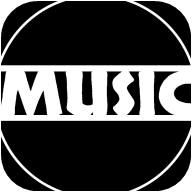
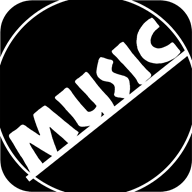
スマホ版 v8.23.3: アプリのアイコンを新しいデザインに変更

diff --git a/index.html b/index.html
@@ -8,12 +8,12 @@
 <link rel="manifest" href="manifest.webmanifest">
 <meta name="theme-color" content="#2b2757">
 <meta name="mobile-web-app-capable" content="yes">
-<link rel="icon" href="icons/icon.svg?v=20261015-5" type="image/svg+xml">
-<link rel="apple-touch-icon" href="icons/icon-192.png?v=20261015-5">
+<link rel="icon" href="icons/icon.svg?v=20261015-6" type="image/svg+xml">
+<link rel="apple-touch-icon" href="icons/icon-192.png?v=20261015-6">
 <link rel="preconnect" href="https://fonts.googleapis.com">
 <link rel="preconnect" href="https://fonts.gstatic.com" crossorigin>
 <link href="https://fonts.googleapis.com/css2?family=Cormorant+Garamond:wght@400;600&family=DM+Sans:opsz,wght@9..40,400;9..40,500;9..40,700&family=Cinzel:wght@400;500&display=swap" rel="stylesheet">
-<link rel="stylesheet" href="style.css?v=20261015-5">
+<link rel="stylesheet" href="style.css?v=20261015-6">
 <!-- 画面の色（v3.7）：最初の描画の前にブラックモードを当てる（白→黒のちらつきを防ぐ）。保存場所は musicManager_ui の theme -->
 <script>
 (function () {
@@ -741,92 +741,92 @@
 <div id="busy-overlay" class="busy-overlay" hidden><div class="busy-box"><div class="busy-spinner"></div><div id="busy-text">実行中…</div></div></div>
 
 <!-- js は機能ごとのファイル。起動処理（12-init.js）は必ず最後（新しいファイルはその直前に足す） -->
-<script src="js/01-core.js?v=20261015-5"></script>
-<script src="js/02-folder-access.js?v=20261015-5"></script>
-<script src="js/03-tag-reader.js?v=20261015-5"></script>
-<script src="js/04-library.js?v=20261015-5"></script>
-<script src="js/05-library-page.js?v=20261015-5"></script>
-<script src="js/06-player.js?v=20261015-5"></script>
-<script src="js/07-playlists.js?v=20261015-5"></script>
-<script src="js/08-organizer.js?v=20261015-5"></script>
-<script src="js/09-file-ops.js?v=20261015-5"></script>
-<script src="js/10-settings-backup.js?v=20261015-5"></script>
-<script src="js/11-changelog.js?v=20261015-5"></script>
-<script src="js/13-artwork.js?v=20261015-5"></script>
-<script src="js/14-albums.js?v=20261015-5"></script>
-<script src="js/15-lyrics.js?v=20261015-5"></script>
-<script src="js/16-tag-writer.js?v=20261015-5"></script>
-<script src="js/17-tag-edit.js?v=20261015-5"></script>
-<script src="js/18-artwork-edit.js?v=20261015-5"></script>
-<script src="js/19-new-songs.js?v=20261015-5"></script>
-<script src="js/20-heavy-rotation.js?v=20261015-5"></script>
-<script src="js/21-artists.js?v=20261015-5"></script>
-<script src="js/22-load-progress.js?v=20261015-5"></script>
-<script src="js/23-library-index.js?v=20261015-5"></script>
-<script src="js/24-hidden-albums.js?v=20261015-5"></script>
-<script src="js/25-navigation.js?v=20261015-5"></script>
-<script src="js/26-pinned-albums.js?v=20261015-5"></script>
-<script src="js/27-card-actions.js?v=20261015-5"></script>
-<script src="js/28-pinned-artists.js?v=20261015-5"></script>
-<script src="js/29-album-sort.js?v=20261015-5"></script>
-<script src="js/30-album-sortkey.js?v=20261015-5"></script>
-<script src="js/31-album-tags.js?v=20261015-5"></script>
-<script src="js/32-genre-suggest.js?v=20261015-5"></script>
-<script src="js/33-album-genre.js?v=20261015-5"></script>
-<script src="js/34-duplicates.js?v=20261015-5"></script>
-<script src="js/35-album-folder.js?v=20261015-5"></script>
-<script src="js/36-western.js?v=20261015-5"></script>
-<script src="js/37-now-playing.js?v=20261015-5"></script>
-<script src="js/38-album-groups.js?v=20261015-5"></script>
-<script src="js/39-playlist-play.js?v=20261015-5"></script>
-<script src="js/40-coverflow.js?v=20261015-5"></script>
-<script src="js/41-album-bulk-edit.js?v=20261015-5"></script>
-<script src="js/42-sortkey-cover.js?v=20261015-5"></script>
-<script src="js/43-playlist-copy.js?v=20261015-5"></script>
-<script src="js/44-playlist-add-albums.js?v=20261015-5"></script>
-<script src="js/45-album-scroll.js?v=20261015-5"></script>
-<script src="js/46-seasons.js?v=20261015-5"></script>
-<script src="js/47-shuffle-play.js?v=20261015-5"></script>
-<script src="js/48-album-context-menu.js?v=20261015-5"></script>
-<script src="js/49-upbeat.js?v=20261015-5"></script>
-<script src="js/50-np-album.js?v=20261015-5"></script>
-<script src="js/51-album-reset.js?v=20261015-5"></script>
-<script src="js/52-data-store.js?v=20261015-5"></script>
-<script src="js/53-storage-usage.js?v=20261015-5"></script>
-<script src="js/54-spin-cd.js?v=20261015-5"></script>
-<script src="js/55-np-title-fit.js?v=20261015-5"></script>
-<script src="js/56-cassette.js?v=20261015-5"></script>
-<script src="js/57-record.js?v=20261015-5"></script>
-<script src="js/58-md.js?v=20261015-5"></script>
-<script src="js/59-mobile.js?v=20261015-5"></script>
-<script src="js/60-album-bar.js?v=20261015-5"></script>
-<script src="js/61-album-filter-icons.js?v=20261015-5"></script>
-<script src="js/62-lyrics-mini.js?v=20261015-5"></script>
-<script src="js/63-header-brand.js?v=20261015-5"></script>
-<script src="js/64-card-menu.js?v=20261015-5"></script>
-<script src="js/65-album-play-np.js?v=20261015-5"></script>
-<script src="js/66-bottom-nav.js?v=20261015-5"></script>
-<script src="js/67-np-viz-menu.js?v=20261015-5"></script>
-<script src="js/68-np-onescreen.js?v=20261015-5"></script>
-<script src="js/69-album-head-mobile.js?v=20261015-5"></script>
-<script src="js/70-np-viz-trail.js?v=20261015-5"></script>
-<script src="js/71-np-landscape.js?v=20261015-5"></script>
-<script src="js/72-pin-sort-drag.js?v=20261015-5"></script>
-<script src="js/73-np-viz-settings.js?v=20261015-5"></script>
-<script src="js/74-album-set-play.js?v=20261015-5"></script>
-<script src="js/75-np-viz-more.js?v=20261015-5"></script>
-<script src="js/76-romaji.js?v=20261015-5"></script>
-<script src="js/77-album-home.js?v=20261015-5"></script>
-<script src="js/78-np-lyrics-over.js?v=20261015-5"></script>
-<script src="js/79-artist-copy.js?v=20261015-5"></script>
-<script src="js/80-season-hidden.js?v=20261015-5"></script>
-<script src="js/81-np-bg.js?v=20261015-5"></script>
-<script src="js/82-up-next.js?v=20261015-5"></script>
-<script src="js/83-tag-file-write.js?v=20261015-5"></script>
-<script src="js/84-pinned-songs.js?v=20261015-5"></script>
-<script src="js/85-anime-songs.js?v=20261015-5"></script>
-<script src="js/86-fast-start.js?v=20261015-5"></script>
-<script src="js/87-marquee.js?v=20261015-5"></script>
-<script src="js/12-init.js?v=20261015-5"></script>
+<script src="js/01-core.js?v=20261015-6"></script>
+<script src="js/02-folder-access.js?v=20261015-6"></script>
+<script src="js/03-tag-reader.js?v=20261015-6"></script>
+<script src="js/04-library.js?v=20261015-6"></script>
+<script src="js/05-library-page.js?v=20261015-6"></script>
+<script src="js/06-player.js?v=20261015-6"></script>
+<script src="js/07-playlists.js?v=20261015-6"></script>
+<script src="js/08-organizer.js?v=20261015-6"></script>
+<script src="js/09-file-ops.js?v=20261015-6"></script>
+<script src="js/10-settings-backup.js?v=20261015-6"></script>
+<script src="js/11-changelog.js?v=20261015-6"></script>
+<script src="js/13-artwork.js?v=20261015-6"></script>
+<script src="js/14-albums.js?v=20261015-6"></script>
+<script src="js/15-lyrics.js?v=20261015-6"></script>
+<script src="js/16-tag-writer.js?v=20261015-6"></script>
+<script src="js/17-tag-edit.js?v=20261015-6"></script>
+<script src="js/18-artwork-edit.js?v=20261015-6"></script>
+<script src="js/19-new-songs.js?v=20261015-6"></script>
+<script src="js/20-heavy-rotation.js?v=20261015-6"></script>
+<script src="js/21-artists.js?v=20261015-6"></script>
+<script src="js/22-load-progress.js?v=20261015-6"></script>
+<script src="js/23-library-index.js?v=20261015-6"></script>
+<script src="js/24-hidden-albums.js?v=20261015-6"></script>
+<script src="js/25-navigation.js?v=20261015-6"></script>
+<script src="js/26-pinned-albums.js?v=20261015-6"></script>
+<script src="js/27-card-actions.js?v=20261015-6"></script>
+<script src="js/28-pinned-artists.js?v=20261015-6"></script>
+<script src="js/29-album-sort.js?v=20261015-6"></script>
+<script src="js/30-album-sortkey.js?v=20261015-6"></script>
+<script src="js/31-album-tags.js?v=20261015-6"></script>
+<script src="js/32-genre-suggest.js?v=20261015-6"></script>
+<script src="js/33-album-genre.js?v=20261015-6"></script>
+<script src="js/34-duplicates.js?v=20261015-6"></script>
+<script src="js/35-album-folder.js?v=20261015-6"></script>
+<script src="js/36-western.js?v=20261015-6"></script>
+<script src="js/37-now-playing.js?v=20261015-6"></script>
+<script src="js/38-album-groups.js?v=20261015-6"></script>
+<script src="js/39-playlist-play.js?v=20261015-6"></script>
+<script src="js/40-coverflow.js?v=20261015-6"></script>
+<script src="js/41-album-bulk-edit.js?v=20261015-6"></script>
+<script src="js/42-sortkey-cover.js?v=20261015-6"></script>
+<script src="js/43-playlist-copy.js?v=20261015-6"></script>
+<script src="js/44-playlist-add-albums.js?v=20261015-6"></script>
+<script src="js/45-album-scroll.js?v=20261015-6"></script>
+<script src="js/46-seasons.js?v=20261015-6"></script>
+<script src="js/47-shuffle-play.js?v=20261015-6"></script>
+<script src="js/48-album-context-menu.js?v=20261015-6"></script>
+<script src="js/49-upbeat.js?v=20261015-6"></script>
+<script src="js/50-np-album.js?v=20261015-6"></script>
+<script src="js/51-album-reset.js?v=20261015-6"></script>
+<script src="js/52-data-store.js?v=20261015-6"></script>
+<script src="js/53-storage-usage.js?v=20261015-6"></script>
+<script src="js/54-spin-cd.js?v=20261015-6"></script>
+<script src="js/55-np-title-fit.js?v=20261015-6"></script>
+<script src="js/56-cassette.js?v=20261015-6"></script>
+<script src="js/57-record.js?v=20261015-6"></script>
+<script src="js/58-md.js?v=20261015-6"></script>
+<script src="js/59-mobile.js?v=20261015-6"></script>
+<script src="js/60-album-bar.js?v=20261015-6"></script>
+<script src="js/61-album-filter-icons.js?v=20261015-6"></script>
+<script src="js/62-lyrics-mini.js?v=20261015-6"></script>
+<script src="js/63-header-brand.js?v=20261015-6"></script>
+<script src="js/64-card-menu.js?v=20261015-6"></script>
+<script src="js/65-album-play-np.js?v=20261015-6"></script>
+<script src="js/66-bottom-nav.js?v=20261015-6"></script>
+<script src="js/67-np-viz-menu.js?v=20261015-6"></script>
+<script src="js/68-np-onescreen.js?v=20261015-6"></script>
+<script src="js/69-album-head-mobile.js?v=20261015-6"></script>
+<script src="js/70-np-viz-trail.js?v=20261015-6"></script>
+<script src="js/71-np-landscape.js?v=20261015-6"></script>
+<script src="js/72-pin-sort-drag.js?v=20261015-6"></script>
+<script src="js/73-np-viz-settings.js?v=20261015-6"></script>
+<script src="js/74-album-set-play.js?v=20261015-6"></script>
+<script src="js/75-np-viz-more.js?v=20261015-6"></script>
+<script src="js/76-romaji.js?v=20261015-6"></script>
+<script src="js/77-album-home.js?v=20261015-6"></script>
+<script src="js/78-np-lyrics-over.js?v=20261015-6"></script>
+<script src="js/79-artist-copy.js?v=20261015-6"></script>
+<script src="js/80-season-hidden.js?v=20261015-6"></script>
+<script src="js/81-np-bg.js?v=20261015-6"></script>
+<script src="js/82-up-next.js?v=20261015-6"></script>
+<script src="js/83-tag-file-write.js?v=20261015-6"></script>
+<script src="js/84-pinned-songs.js?v=20261015-6"></script>
+<script src="js/85-anime-songs.js?v=20261015-6"></script>
+<script src="js/86-fast-start.js?v=20261015-6"></script>
+<script src="js/87-marquee.js?v=20261015-6"></script>
+<script src="js/12-init.js?v=20261015-6"></script>
 </body>
 </html>

diff --git a/js/11-changelog.js b/js/11-changelog.js
@@ -3,9 +3,19 @@
    変更したら CHANGELOG の先頭に1件追加し、APP_VERSION も上げる（v1.0 → v1.1）
    ========================================================= */
 
-var APP_VERSION = 'v8.23.2';
+var APP_VERSION = 'v8.23.3';
 
 var CHANGELOG = [
+  {
+    version: 'v8.23.3',
+    date: '2026-10-15',
+    title: '【スマホ版】アプリのアイコンを新しいデザインに変更',
+    items: [
+      'スマホ版：アプリのアイコンを、黒の角丸四角に白い円と手書き風の「MUSIC」の新しいデザインに変えました（ブラウザのタブ・ホーム画面のアイコン）。角丸の外側は透明です',
+      'スマホ版：ホーム画面用の丸や角丸に合わせた形のアイコン（icon-maskable-512.png）は、黒の背景の中央にデザインを小さめに置き、白い円が切れないようにしました',
+      'スマホ版：新しいアイコンがすぐ出るよう、控え（キャッシュ）の名前と読み込みの番号を新しくし、manifest のアイコンにも番号を付けました。ホーム画面のアイコンは、端末によってはアプリを開き直したあと少したってから変わります（変わらないときは、ホーム画面のアイコンをいったん外して追加し直してください）'
+    ]
+  },
   {
     version: 'v8.23.2',
     date: '2026-10-15',

diff --git a/sw.js b/sw.js
@@ -6,7 +6,7 @@
    ・登録は 59-mobile.js（http / https で開いたときだけ。file:// では登録しない）
    ========================================================= */
 
-var CACHE_NAME = 'music-manager-app-v8.23.2';
+var CACHE_NAME = 'music-manager-app-v8.23.3';
 // 再生画面の背景の写真（スマホ版 v8.14.1。bg-photos/。計 約4.3MB）は、アプリの控えとは別の控えに入れて、版を上げても消さない。
 // 入れ方：install のときに、まだ控えていない写真だけを取りに行く（つながらないときは飛ばし、表示したときに控える）。
 // 取り出し方：控えにあればそれを使い（写真は変わらないため）、無ければ取りに行って控える
